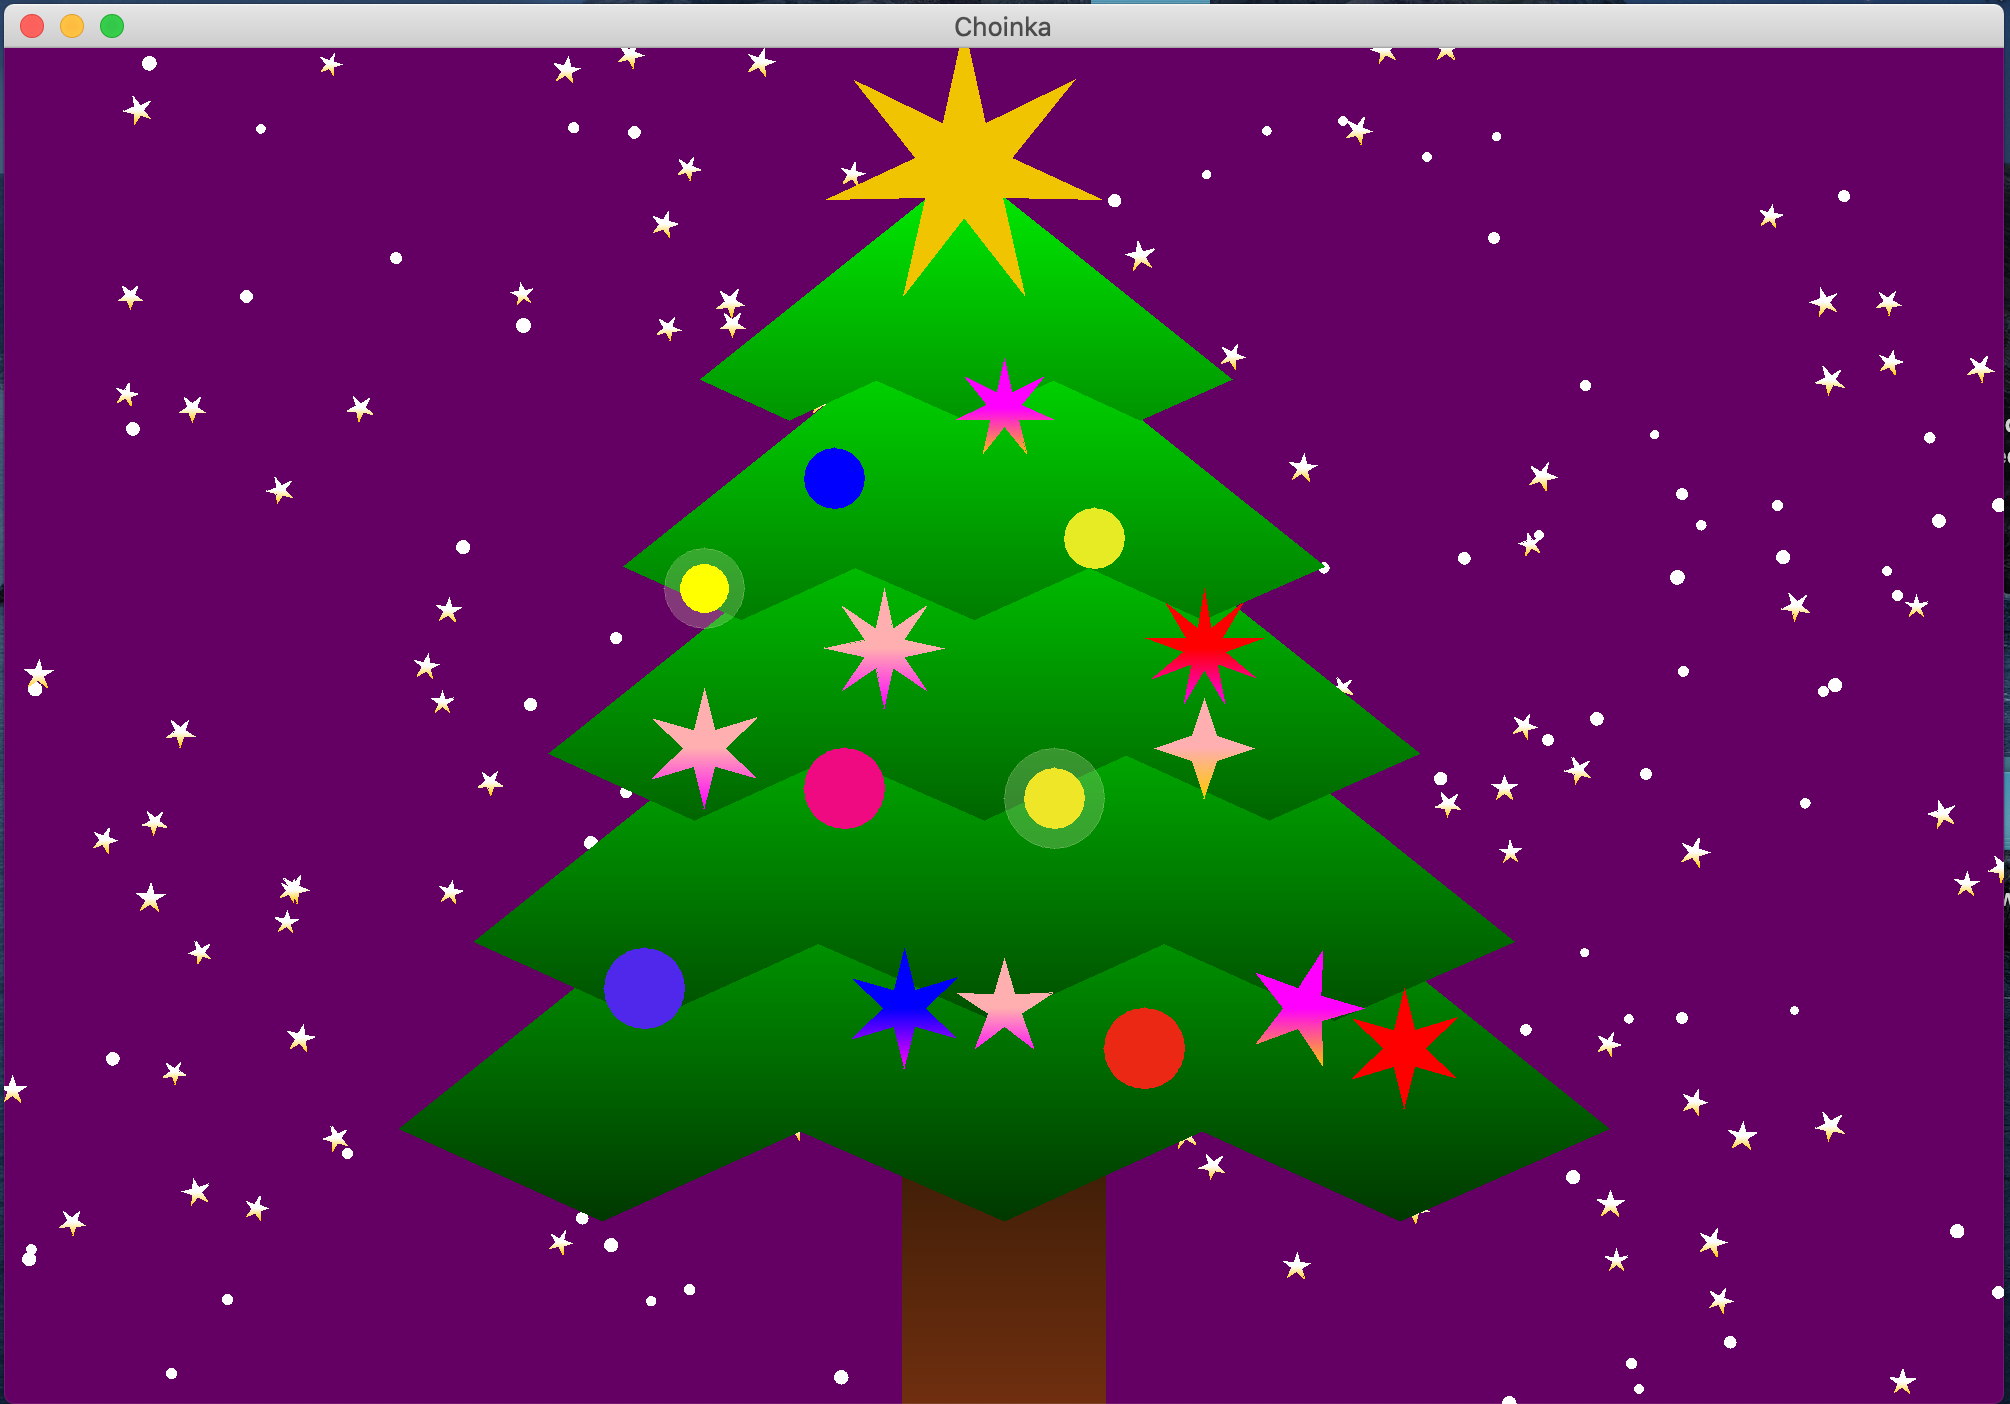
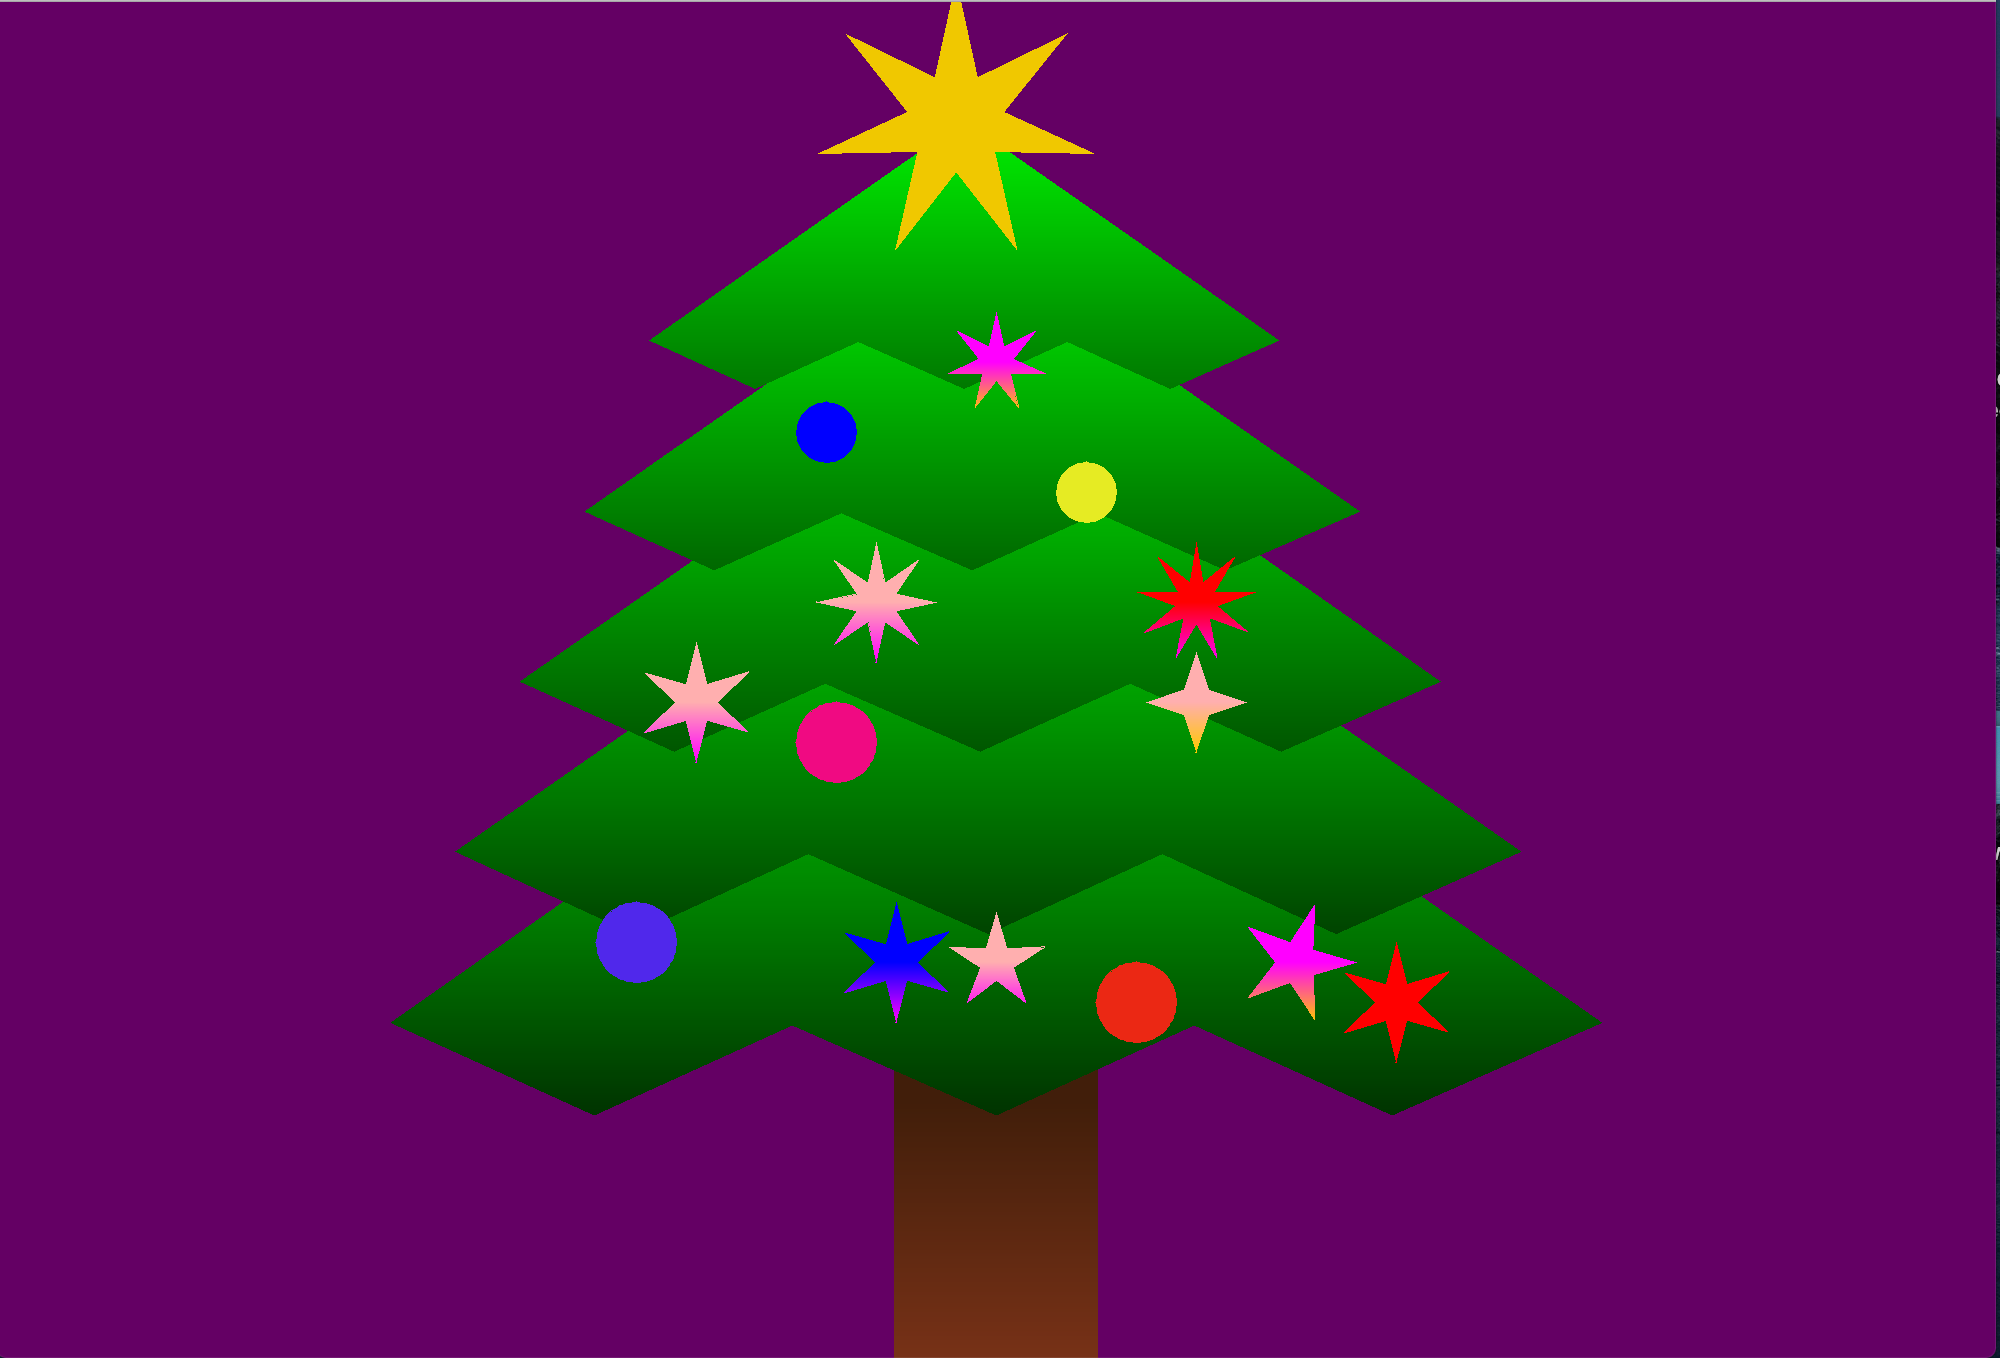
Finish up Choinka

diff --git a/labki/src/main/java/com/gmail/konradkalita/lab10/DrawPanel.java b/labki/src/main/java/com/gmail/konradkalita/lab10/DrawPanel.java
@@ -3,10 +3,8 @@ package com.gmail.konradkalita.lab10;
 
 import javax.swing.*;
 import java.awt.*;
-import java.awt.geom.AffineTransform;
 import java.util.ArrayList;
 import java.util.List;
-import java.util.Random;
 
 public class DrawPanel extends JPanel {
 
@@ -14,26 +12,9 @@ public class DrawPanel extends JPanel {
 
     public DrawPanel(){
         setBackground(new Color(100, 0, 100));
-        Random random = new Random();
-        for(int i = 0; i < 100; i++){
-            shapes.add(new Bubble(
-                    random.nextInt(1000),
-                    random.nextInt(700),
-                    Math.random() * (0.03) + 0.04,
-                    Color.WHITE));
-        }
-
-        for(int i = 0; i < 100; i++){
-            shapes.add(new Star(random.nextInt(1000),
-                    random.nextInt(700),
-                    Math.random() * (0.02) + 0.06,
-                    5,Color.WHITE,Color.ORANGE,
-                    Math.random() * (Math.PI)));
-        }
-
         shapes.add(new TreeTrunk(450,550,2));
         shapes.add(new Tree(200,0,3,5));
-        shapes.add(new Star(480,60,0.7,7,new Color(240, 196, 1)));
+        shapes.add(new Star(480,60,0.7,7,new Color(240, 200, 0)));
 
         shapes.add(new Star(350,350,0.3,6,Color.PINK,Color.MAGENTA));
         shapes.add(new Star(600,350,0.25,4,Color.PINK,Color.ORANGE, Math.PI / -2));
@@ -50,9 +31,6 @@ public class DrawPanel extends JPanel {
         shapes.add(new Bubble(300,450,0.4,new Color(80, 40, 235)));
         shapes.add(new Bubble(400,350,0.4,new Color(240, 10, 130)));
         shapes.add(new Bubble(530,230,0.3,new Color(230, 235, 35)));
-
-        shapes.add(new Light(500,350,0.5));
-        shapes.add(new Light(330,250,0.4,Color.YELLOW));
     }
 
     public void paintComponent(Graphics g){

diff --git a/labki/src/main/java/com/gmail/konradkalita/lab10/Tree.java b/labki/src/main/java/com/gmail/konradkalita/lab10/Tree.java
@@ -6,14 +6,14 @@ import java.util.List;
 
 public class Tree implements XmasShape {
 
+    List<Branch> branches = new ArrayList<>();
     int numberOfBranches;
-    int x;
-    int y;
     double scale;
     double distanceBetweenBranchesY;
     double constant;
     double scaleConstant;
-    List<Branch> branches = new ArrayList<>();
+    int x;
+    int y;
 
     public Tree(int x, int y, double scale,int numberOfBranches){
         this.numberOfBranches = numberOfBranches;
@@ -21,23 +21,21 @@ public class Tree implements XmasShape {
         this.y = y;
         this.scale = scale;
         this.distanceBetweenBranchesY = (double)100 / numberOfBranches;
-        this.scaleConstant = 0.7 / numberOfBranches;
+        this.scaleConstant = 0.6 / numberOfBranches;
 
-        if(this.scale == 1){
-            this.constant = 2;
-        } else {
-            this.constant = Math.pow(2, 1 - this.scale);
-        }
+
+        if(this.scale == 1) this.constant = 2;
+        else this.constant = Math.pow(2, 1 - this.scale);
     }
 
     @Override
     public void render(Graphics2D g2d){
         for(int i = numberOfBranches; i > 0; i--){
-            this.branches.add(new Branch(this.x + (int) (200 * this.scaleConstant / (this.constant * this.scale) * (
-                    numberOfBranches - i)),
+            this.branches.add(
+                    new Branch(this.x + (int) (200 * this.scaleConstant / (this.constant * this.scale) * (numberOfBranches - i)),
                     (int)(this.y + distanceBetweenBranchesY * this.scale * i),
                     this.scale - scaleConstant * this.scale * (numberOfBranches - i),
-                    0.7 - 0.5 * i / numberOfBranches));
+                    0.6 - 0.5 * i / numberOfBranches));
         }
     }
 

diff --git a/labki/src/main/java/com/gmail/konradkalita/lab10/Star.java b/labki/src/main/java/com/gmail/konradkalita/lab10/Star.java
@@ -1,9 +1,7 @@
 package com.gmail.konradkalita.lab10;
 
 import java.awt.*;
-/*
-    This class can be used as Light on the XMas Tree as well.
- */
+
 public class Star implements XmasShape {
 
     int[] pointsX;
